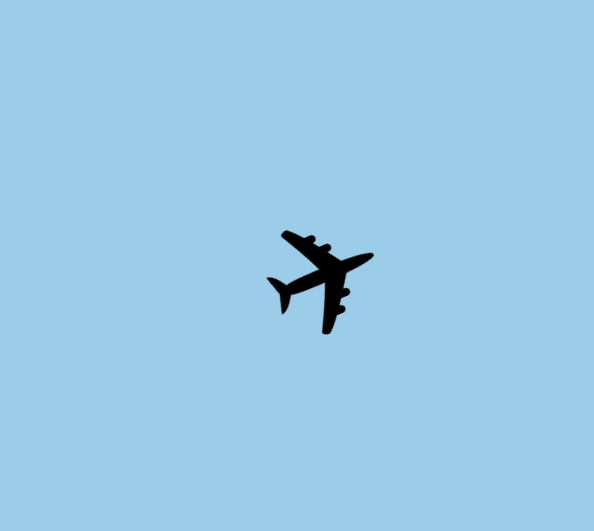
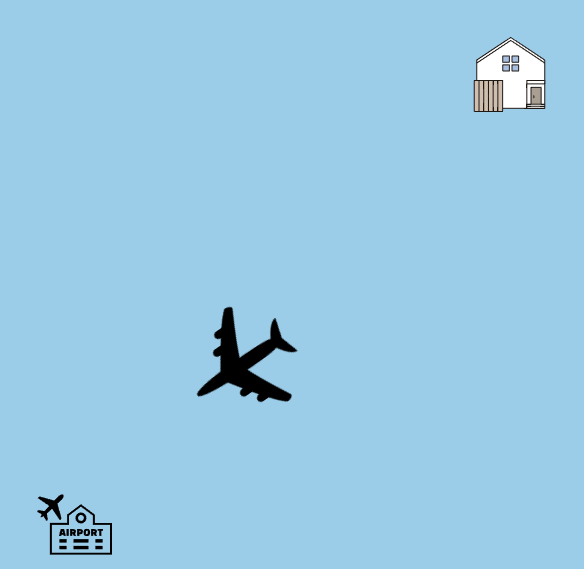
Change description

Changed region(s): [[0.339, 0.4218, 0.6473, 0.7232], [0.8014, 0.0603, 0.9555, 0.2109], [0.0616, 0.8738, 0.2158, 0.9944]]

diff --git a/data/projects-list.js b/data/projects-list.js
@@ -15,7 +15,7 @@ export const projects = [
 
     {
         title: 'Plane Motion Path',
-        description: 'A plan following a coordinated path',
+        description: 'Interactive GSAP animation of a plane flying between home and an airport with motion path, auto-rotation, speed control, reversing, progress tracking, and point-to-click navigation',
         image: 'plane-motion-path-thumbnail',
         href: './data/projects/plane-motion-path/index.html' 
     },

diff --git a/data/projects/plane-motion-path/index.js b/data/projects/plane-motion-path/index.js
@@ -104,13 +104,11 @@ timeSlider.addEventListener('change', (e) => {
 homeEl.addEventListener('click', () => {
     anim.pause();
     gsap.to(anim, {time: 2});
-    // gsap.to(anim, {});
     anim.resume();
 })
 
 airportEl.addEventListener('click', () => {
     anim.pause();
     gsap.to(anim, {time: 3.12});
-    // gsap.to(anim, {});
     anim.resume();
 })

diff --git a/data/projects/plane-motion-path/index.css b/data/projects/plane-motion-path/index.css
@@ -124,5 +124,5 @@ a {
 }
 
 .home-img, .airport-img {
-    width: 10px;
+    width: 50px;
 }
